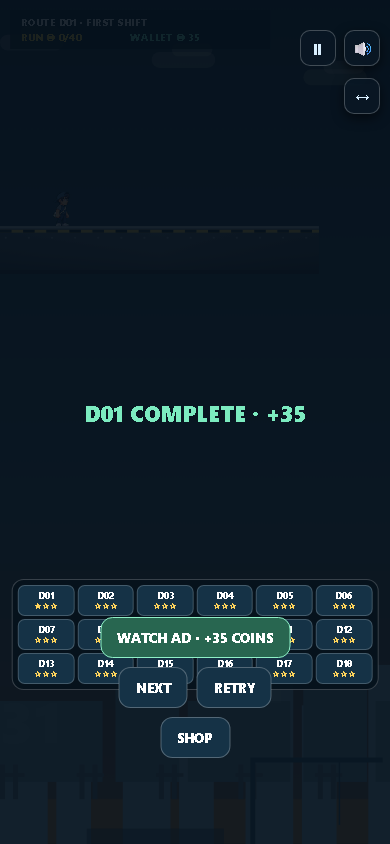
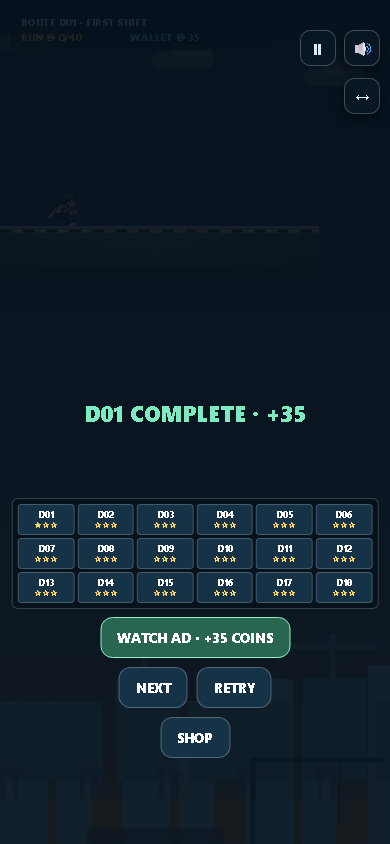
fix(campaign): separate Dock results from route grid

Changed region(s): [[0.0308, 0.5853, 0.9846, 0.8318]]

diff --git a/js/a12-campaign.js b/js/a12-campaign.js
@@ -2265,14 +2265,14 @@
     style.textContent += `#a12Shop{box-sizing:border-box}#a12Shop.show{grid-template-columns:minmax(230px,40%) minmax(0,1fr);grid-template-rows:minmax(0,1fr);gap:18px}#a12Preview{display:flex;flex-direction:column;justify-content:center;gap:12px;min-width:0;min-height:0;overflow:hidden}#a12Preview canvas{width:min(100%,480px);height:auto;max-height:65%;aspect-ratio:3/2;object-fit:contain;image-rendering:pixelated}#a12WorldWarning{margin:0;padding:7px 10px;border:1px solid #ffcf5c88;border-radius:10px;background:#442b12;color:#ffe29a;text-align:center;font:900 12px/1.2 system-ui}#a12WorldWarning[hidden]{display:none}#a12Preview .previewControls{display:flex;flex-wrap:wrap;justify-content:center;gap:6px}#a12Preview button{padding:8px 10px}#a12Preview button[aria-pressed="true"]{background:#286650;border-color:#8ff1c8}#a12Products{min-height:0;min-width:0;overscroll-behavior:contain}@media(max-width:540px) and (orientation:portrait){#a12Shop.show{grid-template-columns:minmax(0,1fr);grid-template-rows:minmax(230px,40%) minmax(0,1fr);gap:12px}#a12Preview{gap:5px}#a12Preview canvas{max-height:62%;width:auto;max-width:100%}}`;
     style.textContent += `@media(orientation:landscape){#a12Shop{padding:max(12px,var(--safe-top)) max(14px,var(--safe-right)) max(12px,var(--safe-bottom)) max(14px,var(--safe-left))}#a12Shop.show{grid-template-columns:minmax(230px,38%) minmax(0,1fr);gap:14px}#a12Preview{min-height:35vh}#a12Preview canvas{max-height:72%}#a12Products{display:grid;grid-template-rows:auto auto minmax(0,1fr) auto;overflow:hidden;padding:0}#a12ShopTop{display:flex;align-items:center;justify-content:space-between;gap:8px}#a12ShopTop h2{font:900 clamp(15px,2.4vw,22px)/1 system-ui;margin:0;white-space:nowrap;overflow:hidden;text-overflow:ellipsis}#a12ShopTop [data-close]{min-width:44px;min-height:44px;padding:0}#a12Products .a12Tabs{display:flex;gap:7px;margin:5px 0}#a12Products [data-list]{display:grid;grid-template-columns:repeat(4,minmax(96px,1fr));gap:8px;overflow-y:auto;min-height:0;align-content:start}#a12Products article{position:relative;min-width:96px;min-height:102px;margin:0;padding:10px 8px 54px;box-sizing:border-box}#a12Products article h3{margin:0;font:850 12px/1.15 system-ui}#a12Products article [data-action]{position:absolute;left:8px;right:8px;bottom:6px;min-width:0;width:calc(100% - 16px);height:44px;padding:4px 6px;border-radius:999px;background:#07131d;color:#ffd45c;border:1px solid #ffd45c88;font:900 11px/1.05 system-ui;box-shadow:0 2px 0 #0008;text-shadow:none}#a12Products article [data-action]:not(:disabled):active{transform:translateY(1px);box-shadow:0 1px 0 #0008}#a12Products article [data-action]:disabled{opacity:.55;color:#d9e2e8;border-color:#ffffff35;box-shadow:none}#a12ShopBottom{display:flex;gap:8px;padding-top:7px}#a12ShopBottom button{min-height:44px;flex:1}#a12Products [data-save]{display:none}}`;
     style.textContent += `@media(orientation:landscape){#a12Products [data-list][hidden]{display:none!important}#a12Products article [data-action]:disabled{opacity:1;color:#82919a;background:#0b171e;border-color:#52616a;box-shadow:none}}`;
-    style.textContent += `#a12DockRoutes{position:fixed;z-index:30;left:50%;bottom:148px;transform:translateX(-50%);width:min(94vw,760px);display:grid;grid-template-columns:repeat(6,1fr);gap:5px;padding:8px;box-sizing:border-box;background:#06121be8;border:1px solid #ffffff33;border-radius:12px}#a12DockRoutes[hidden]{display:none!important}#a12DockRoutes button{min-width:0;padding:6px 2px;border:1px solid #ffffff33;border-radius:7px;background:#153246;color:#fff;font:800 10px/1.05 system-ui}#a12DockRoutes small{display:block;color:#ffd45c;font-size:9px}@media(max-width:540px) and (orientation:portrait){#a12DockRoutes{grid-template-columns:repeat(6,1fr);bottom:154px;gap:3px;padding:5px}#a12DockRoutes button{padding:5px 1px;font-size:9px}}`;
+    style.textContent += `#a12DockRoutes{position:fixed;z-index:30;left:50%;bottom:var(--dock-actions-clearance,148px);transform:translateX(-50%);width:min(94vw,760px);display:grid;grid-template-columns:repeat(6,1fr);gap:5px;padding:8px;box-sizing:border-box;background:#06121be8;border:1px solid #ffffff33;border-radius:6px}#a12DockRoutes[hidden]{display:none!important}#a12DockRoutes button{min-width:0;padding:6px 2px;border:1px solid #ffffff33;border-radius:4px;background:#153246;color:#fff;font:800 10px/1.05 system-ui}#a12DockRoutes small{display:block;color:#ffd45c;font-size:9px}@media(max-width:540px) and (orientation:portrait){#a12DockRoutes{grid-template-columns:repeat(6,1fr);gap:3px;padding:5px}#a12DockRoutes button{padding:5px 1px;font-size:9px}}`;
     document.head.appendChild(style);
     style.textContent += `#a12Actions{flex-wrap:wrap;justify-content:center;max-width:min(96vw,720px)}#a12Actions [data-act="rewarded"]{background:#286650;border-color:#8ff1c8}`;
     const actions = document.createElement("div");
     actions.id = "a12Actions";
     actions.innerHTML = `<button data-act="rewarded" hidden></button><button data-act="next">${t("next")}</button><button data-act="retry">${t("retry")}</button><button data-act="shop">${t("shop")}</button>`;
     document.body.appendChild(actions);
-    const dockRoutes=document.createElement("nav");dockRoutes.id="a12DockRoutes";dockRoutes.hidden=true;document.body.appendChild(dockRoutes);const renderDockRoutes=()=>{const show=document.body.dataset.campaignPhase==="result"&&profile.selectedWorldId==="dock31";dockRoutes.hidden=!show;if(!show)return;dockRoutes.innerHTML=WORLD_REGISTRY.dock31.routes.map(id=>`<button data-route="${id}">${id}<small>${"★".repeat(profile.progressByRoute[id]?.stars||0)}${"☆".repeat(3-(profile.progressByRoute[id]?.stars||0))}</small></button>`).join("")};new MutationObserver(renderDockRoutes).observe(document.body,{attributes:true,attributeFilter:["data-campaign-phase"]});dockRoutes.addEventListener("click",e=>{const id=e.target.closest("[data-route]")?.dataset.route;if(id)startRoute(id)});
+    const dockRoutes=document.createElement("nav");dockRoutes.id="a12DockRoutes";dockRoutes.hidden=true;document.body.appendChild(dockRoutes);const placeDockRoutes=()=>{if(dockRoutes.hidden||actions.hidden)return;const top=actions.getBoundingClientRect().top;dockRoutes.style.setProperty("--dock-actions-clearance",`${Math.max(8,innerHeight-top+8)}px`)};const renderDockRoutes=()=>{const show=document.body.dataset.campaignPhase==="result"&&profile.selectedWorldId==="dock31";dockRoutes.hidden=!show;if(!show)return;dockRoutes.innerHTML=WORLD_REGISTRY.dock31.routes.map(id=>`<button data-route="${id}">${id}<small>${"★".repeat(profile.progressByRoute[id]?.stars||0)}${"☆".repeat(3-(profile.progressByRoute[id]?.stars||0))}</small></button>`).join("");requestAnimationFrame(placeDockRoutes)};new MutationObserver(renderDockRoutes).observe(document.body,{attributes:true,attributeFilter:["data-campaign-phase"]});addEventListener("resize",placeDockRoutes);dockRoutes.addEventListener("click",e=>{const id=e.target.closest("[data-route]")?.dataset.route;if(id)startRoute(id)});
     const languageSelect=document.getElementById("a12Language");languageSelect.value=profile.settings.language;languageSelect.addEventListener("change",async()=>{const previous=profile.settings.language;profile.settings.language=languageFrom(languageSelect.value);applyLanguage();emitGame("language_change",{from:previous,to:profile.settings.language});await persist();});
     actions.hidden = true;
     actions.addEventListener("click", async (e) => {
